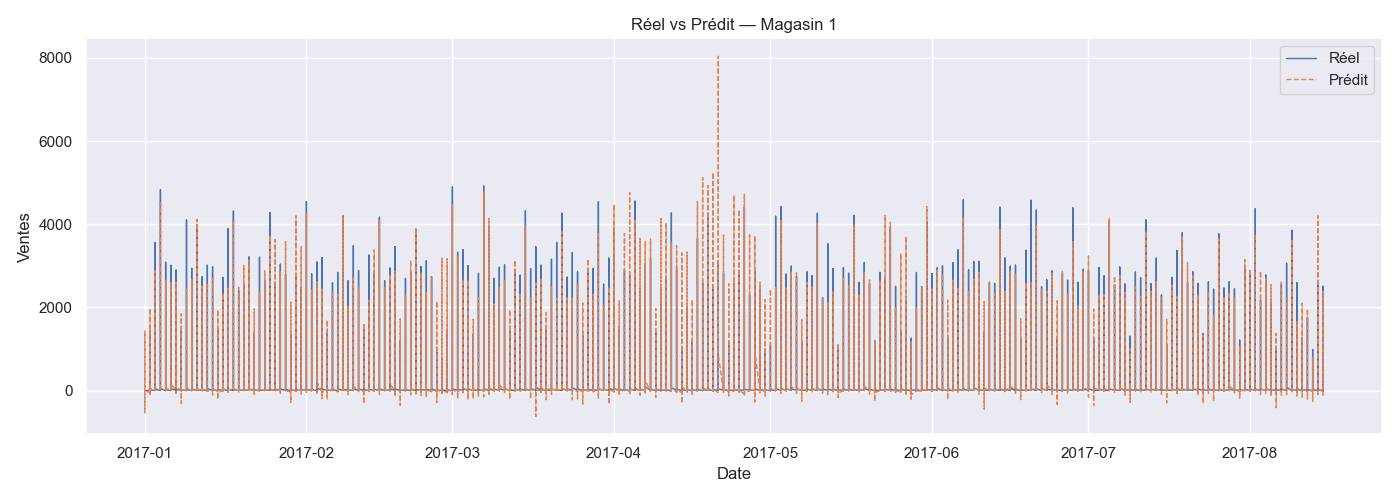
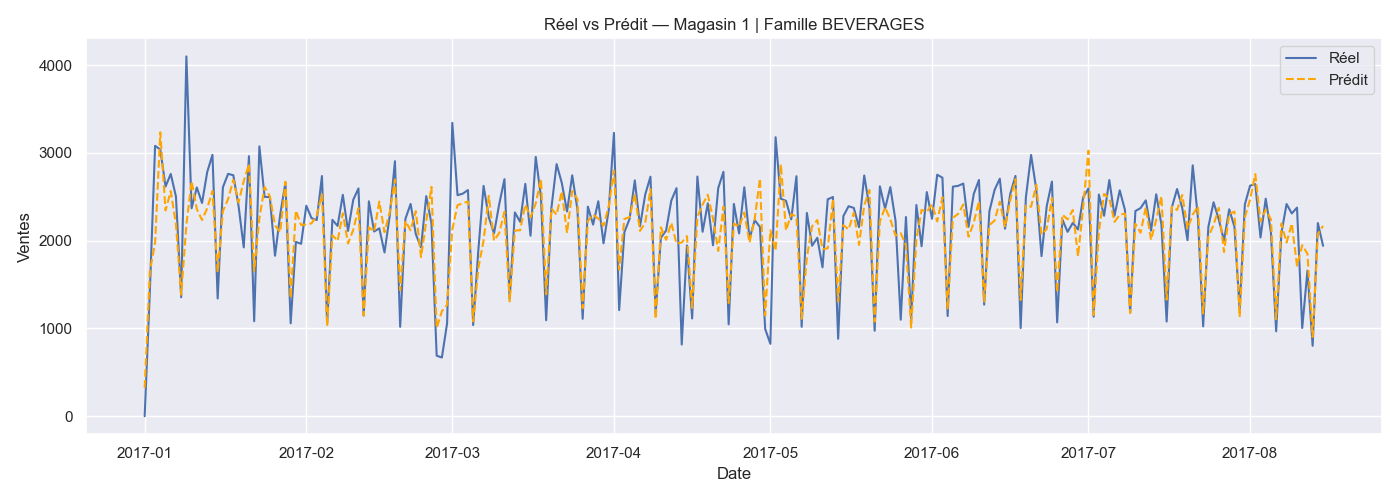
fix: graphique predictions une seule famille + clip valeurs négatives

diff --git a/src/preprocessing.py b/src/preprocessing.py
@@ -115,7 +115,42 @@ def merge_stores(df, stores_filepath):
 
     print(f"Infos magasins intégrées : {stores.shape[0]} magasins")
     return df
+
+def add_lag_features(df):
+    print("Calcul des lag features...")
     
+    # Trier par magasin, famille, date — obligatoire avant le shift
+    df = df.sort_values(["store_nbr", "family", "date"]).reset_index(drop=True)
+
+    # Grouper par magasin + famille
+    group = df.groupby(["store_nbr", "family"])["sales"]
+
+    # lag_1  = ventes du jour précédent
+    df["lag_1"]  = group.shift(1)
+
+    # lag_7  = ventes il y a 7 jours (même jour semaine dernière)
+    df["lag_7"]  = group.shift(7)
+
+    # lag_30 = ventes il y a 30 jours
+    df["lag_30"] = group.shift(30)
+
+    # rolling_7  = moyenne des 7 derniers jours (tendance court terme)
+    df["rolling_7"]  = group.transform(
+        lambda x: x.shift(1).rolling(window=7, min_periods=1).mean()
+    )
+
+    # rolling_30 = moyenne des 30 derniers jours (tendance long terme)
+    df["rolling_30"] = group.transform(
+        lambda x: x.shift(1).rolling(window=30, min_periods=1).mean()
+    )
+
+    # Les premières lignes auront des NaN (pas de passé) → on remplace par 0
+    lag_cols = ["lag_1", "lag_7", "lag_30", "rolling_7", "rolling_30"]
+    df[lag_cols] = df[lag_cols].fillna(0)
+
+    print(f"Lag features ajoutées : {lag_cols}")
+    return df
+
 def run_preprocessing(filepath):
     
     df = load_data(filepath)
@@ -125,5 +160,6 @@ def run_preprocessing(filepath):
     df = encode_categorical(df) 
     df = merge_holidays(df, "data/holidays_events.csv") 
     df = merge_stores(df, "data/stores.csv")
+    df = add_lag_features(df)
     
     return df

diff --git a/src/model.py b/src/model.py
@@ -8,8 +8,8 @@ import os
 
 FEATURES = ["year", "month", "day", "dayofweek",
             "store_nbr", "family_encoded", "is_holiday",
-            "city_encoded", "state_encoded", "type_encoded", 
-            "cluster", "onpromotion"] 
+            "city_encoded", "state_encoded", "type_encoded", "cluster", 
+            "onpromotion", "lag_1", "lag_7", "lag_30", "rolling_7", "rolling_30"] 
 
 TARGET = "sales"
 
@@ -61,19 +61,22 @@ def evaluate_model(model, test):
 
     return predictions, y_test
 
-
 def plot_predictions(test, predictions, output_dir="outputs"):
     os.makedirs(output_dir, exist_ok=True)
 
-    store = test["store_nbr"].iloc[0]
-    mask  = test["store_nbr"] == store
+    # Trouve le bon code pour BEVERAGES
+    beverages_code = test[test["family"] == "BEVERAGES"]["family_encoded"].iloc[0]
+    mask = (test["store_nbr"] == 1) & (test["family_encoded"] == beverages_code)
+
+    # Clip les prédictions négatives à 0
+    preds_clipped = np.clip(predictions, 0, None)
 
     plt.figure(figsize=(14, 5))
     plt.plot(test["date"].values[mask], test[TARGET].values[mask],
-            label="Réel", linewidth=1)
-    plt.plot(test["date"].values[mask], predictions[mask],
-            label="Prédit", linewidth=1, linestyle="--")
-    plt.title(f"Réel vs Prédit — Magasin {store}")
+            label="Réel", linewidth=1.5)
+    plt.plot(test["date"].values[mask], preds_clipped[mask],
+            label="Prédit", linewidth=1.5, linestyle="--", color="orange")
+    plt.title("Réel vs Prédit — Magasin 1 | Famille BEVERAGES")
     plt.xlabel("Date")
     plt.ylabel("Ventes")
     plt.legend()
